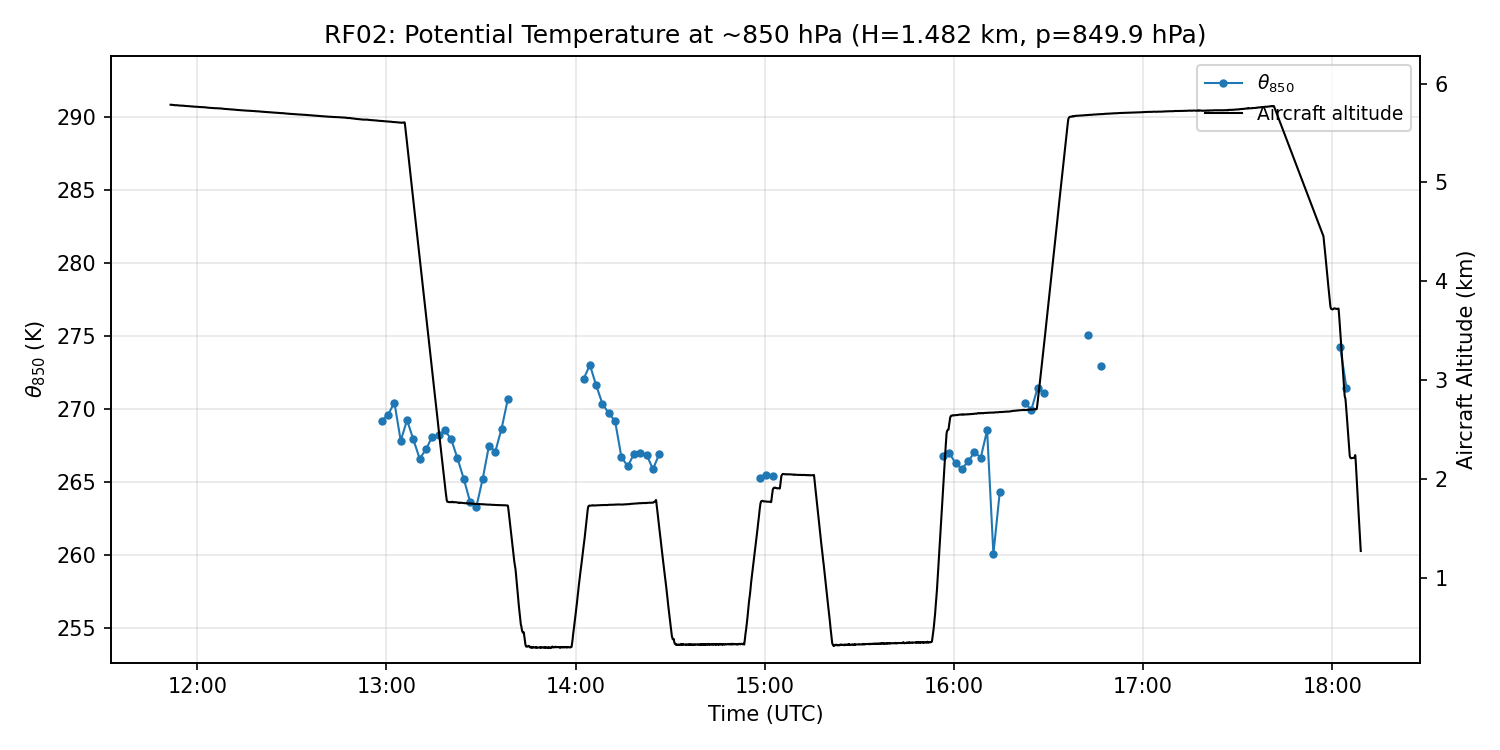
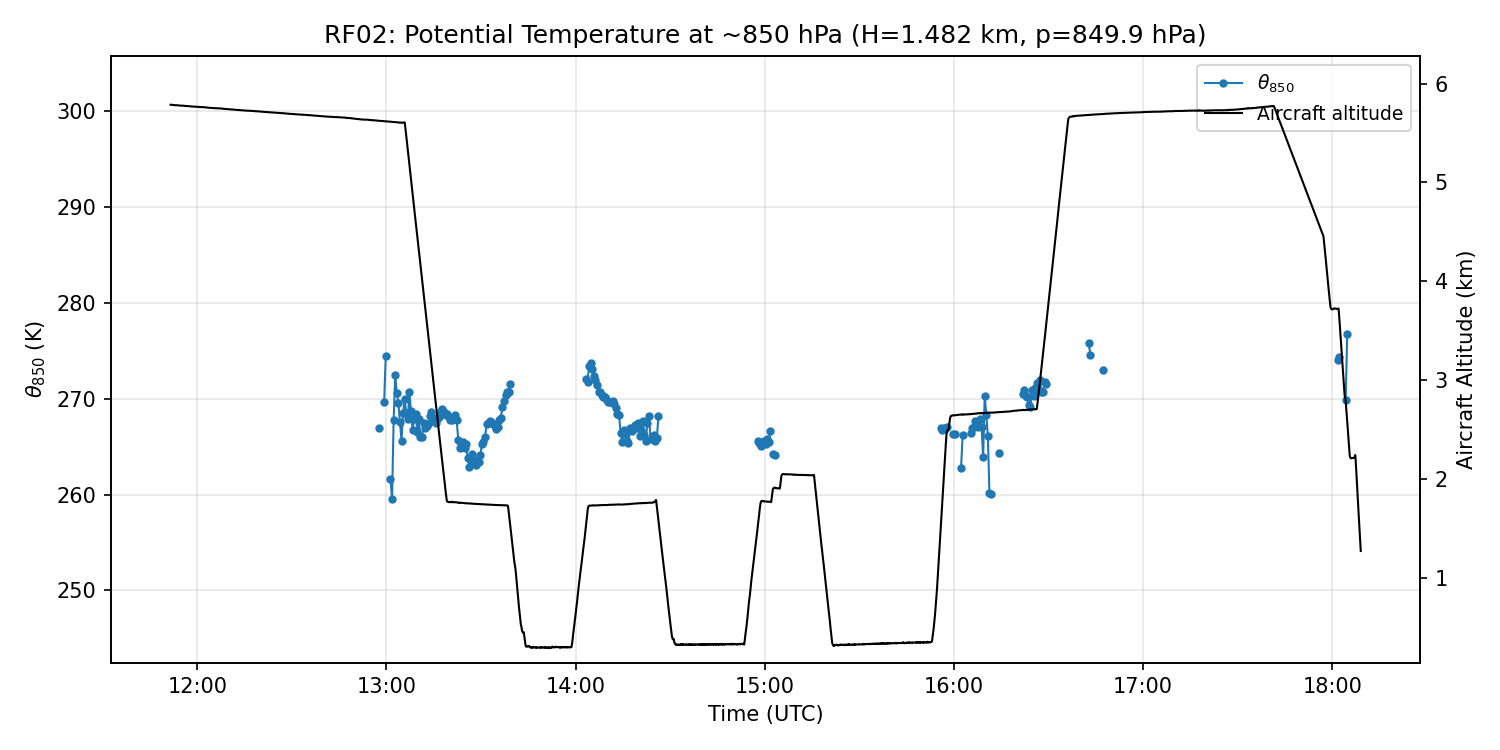
30s block avg

diff --git a/src/638-021/potential_temperature.py b/src/638-021/potential_temperature.py
@@ -20,7 +20,7 @@ FILL_VALUE = 9999.0
 P_850 = 850  # hPa
 
 MAD_K = 5.0  # multiplier for MAD
-TEMPORAL_RESOLUTION = 60 * 2  # seconds
+TEMPORAL_RESOLUTION = 30 # seconds
 
 
 def mask_temperature_outliers(T: np.ndarray, k: float = MAD_K) -> np.ndarray:
